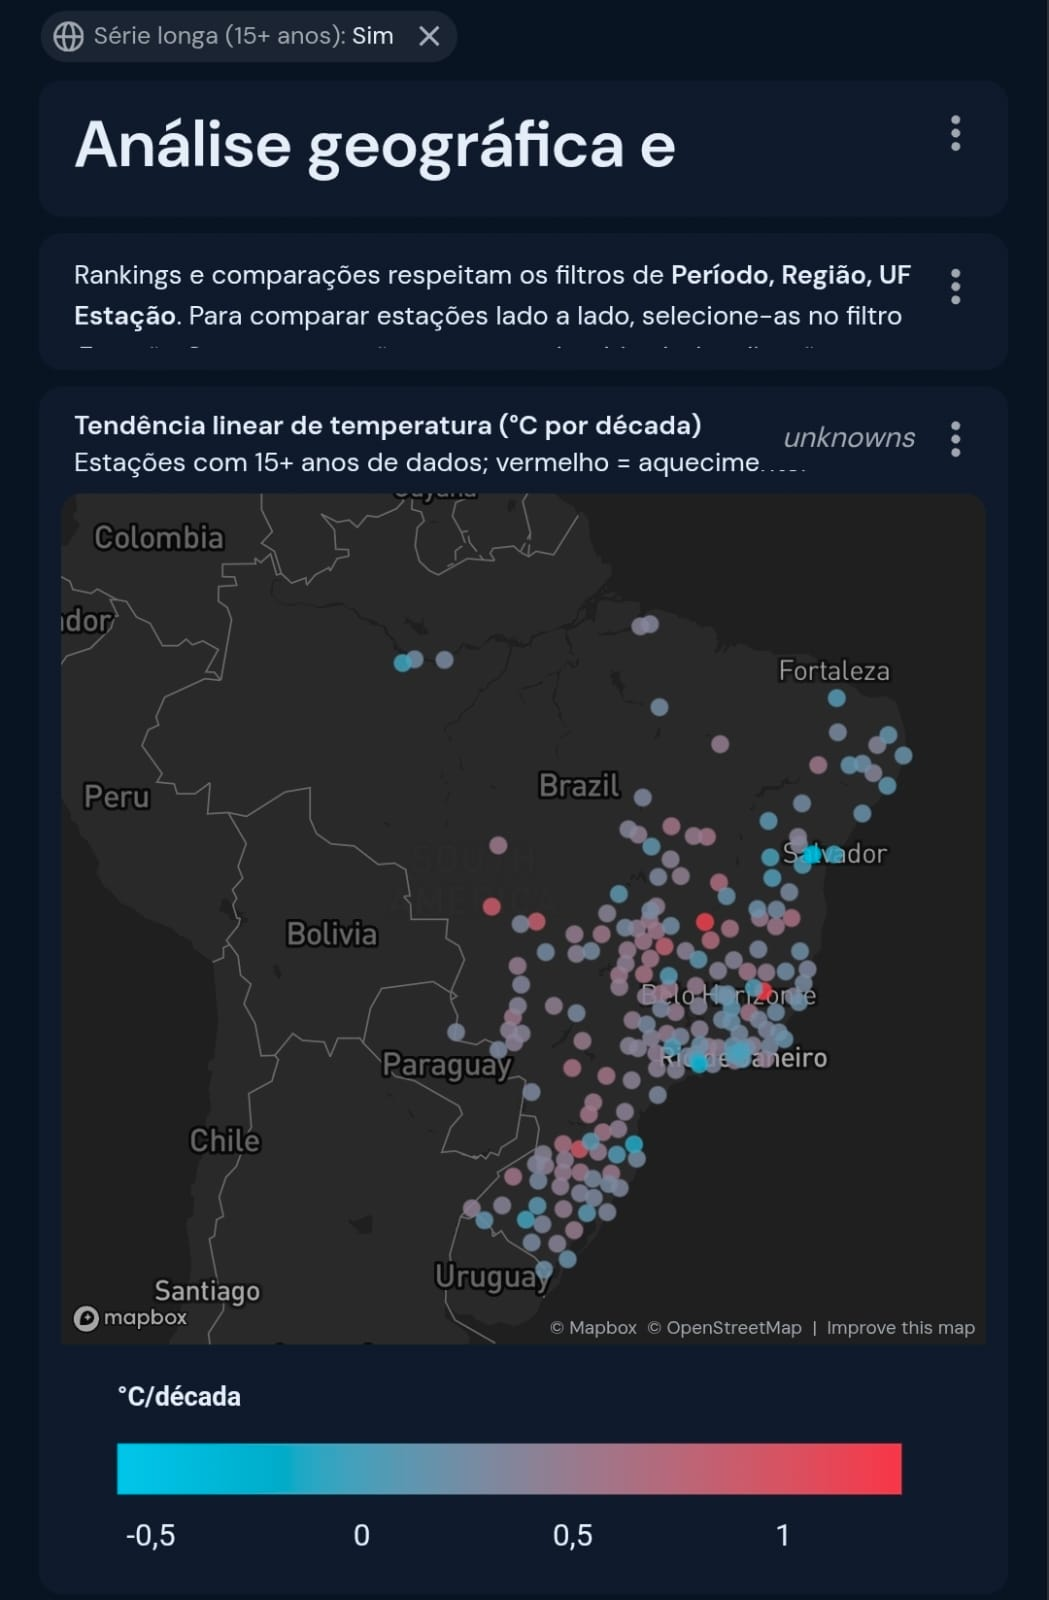
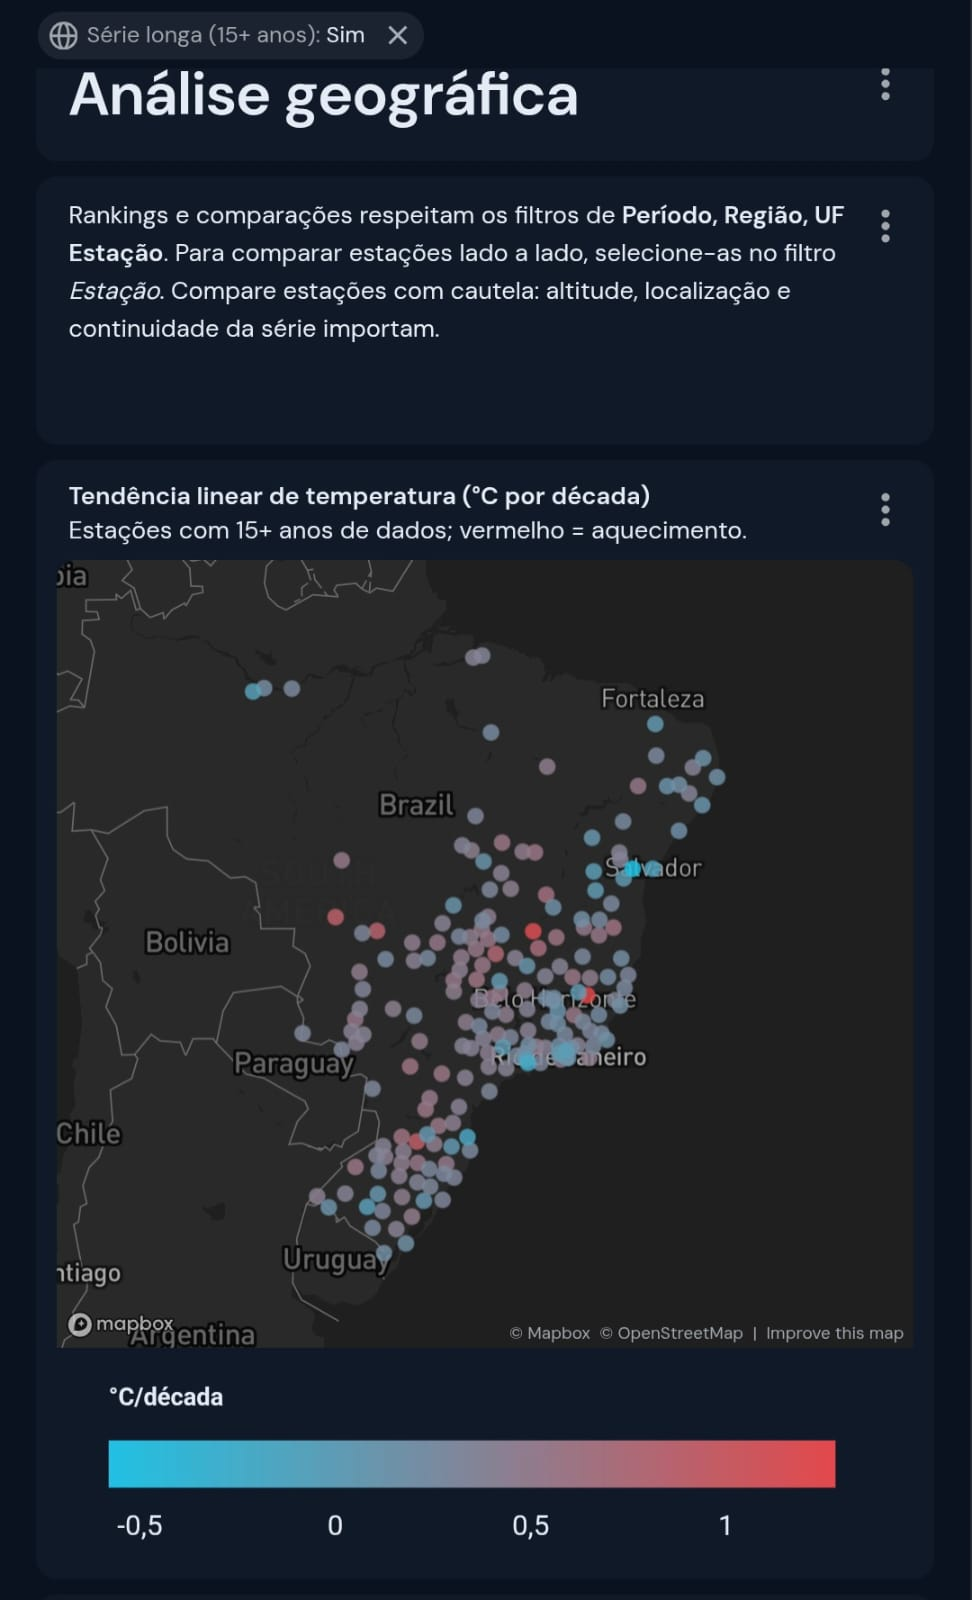
Atualiza capturas do dashboard após correções de layout
- Novas capturas de Visão geral, Histórico, Extremos e seca e Análise
  geográfica (títulos completos, eixo em °C, cores por série, mapa sem
  avisos)
- Captura de Extremos renomeada para extremas_seca.jpeg no README

diff --git a/README.md b/README.md
@@ -78,7 +78,7 @@ Catálogo completo: [docs/catalogo_dados.md](docs/catalogo_dados.md) · Regras e
   </tr>
   <tr>
     <td align="center"><img src="docs/img/elnino.jpeg" width="360" alt="Página El Niño / La Niña: série do ONI por fase desde 2000"><br><sub>03 · El Niño / La Niña — ONI e fases desde 2000</sub></td>
-    <td align="center"><img src="docs/img/eventos_extremos.jpeg" width="360" alt="Página Eventos extremos: dias em onda de calor por estação-ano"><br><sub>04 · Extremos e seca — ondas de calor</sub></td>
+    <td align="center"><img src="docs/img/extremas_seca.jpeg" width="360" alt="Página Extremos e seca: dias em onda de calor, ondas de calor e chuva extrema por estação-ano"><br><sub>04 · Extremos e seca — ondas de calor</sub></td>
   </tr>
   <tr>
     <td align="center"><img src="docs/img/analise_geografica.jpeg" width="360" alt="Página Geográfica: mapa da tendência de temperatura por estação"><br><sub>05 · Geográfica — tendência °C/década por estação</sub></td>
